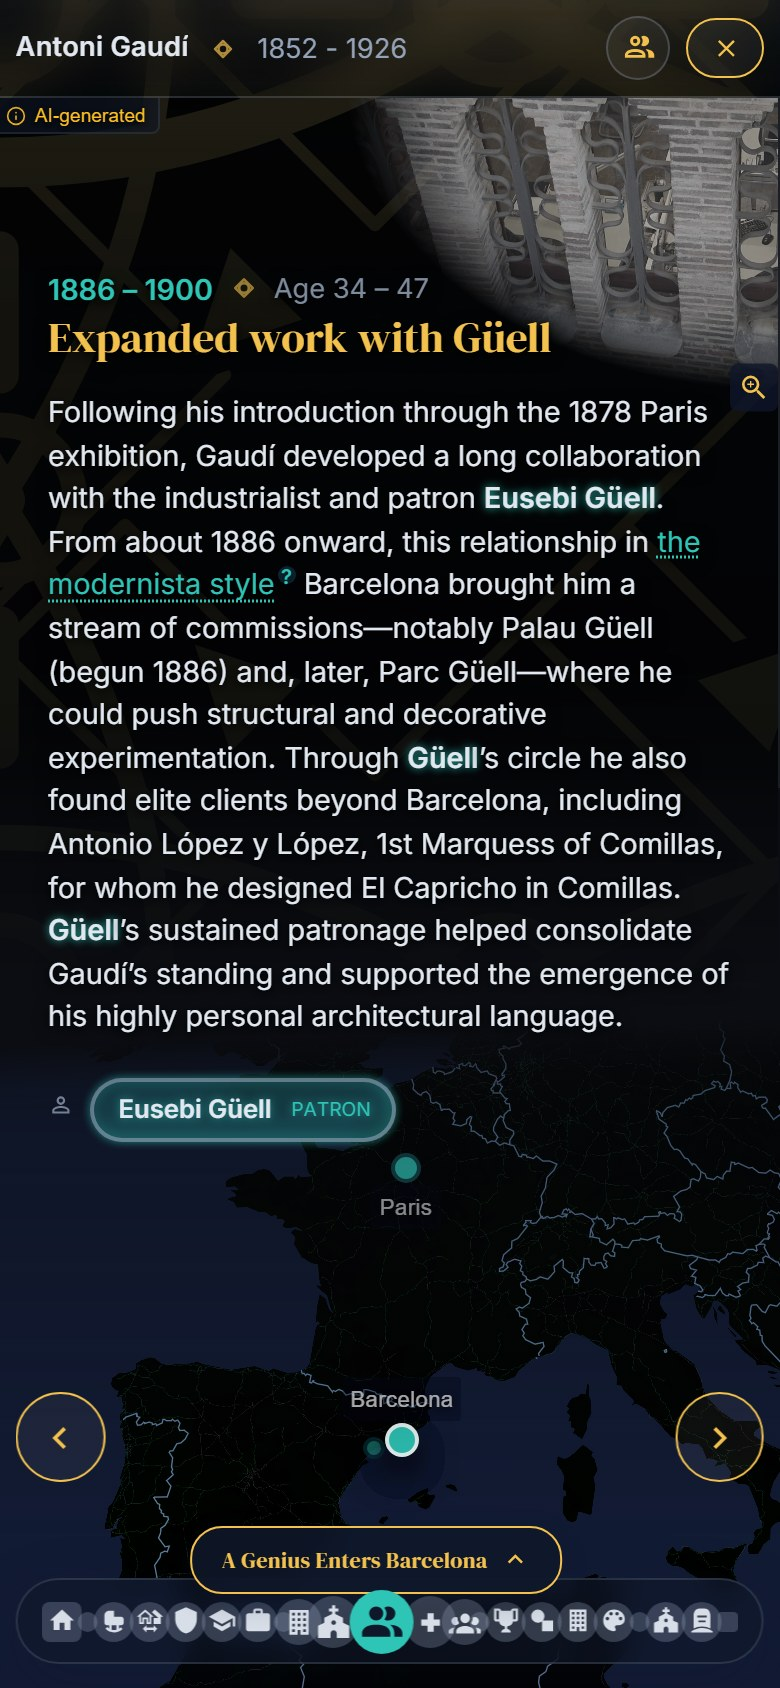
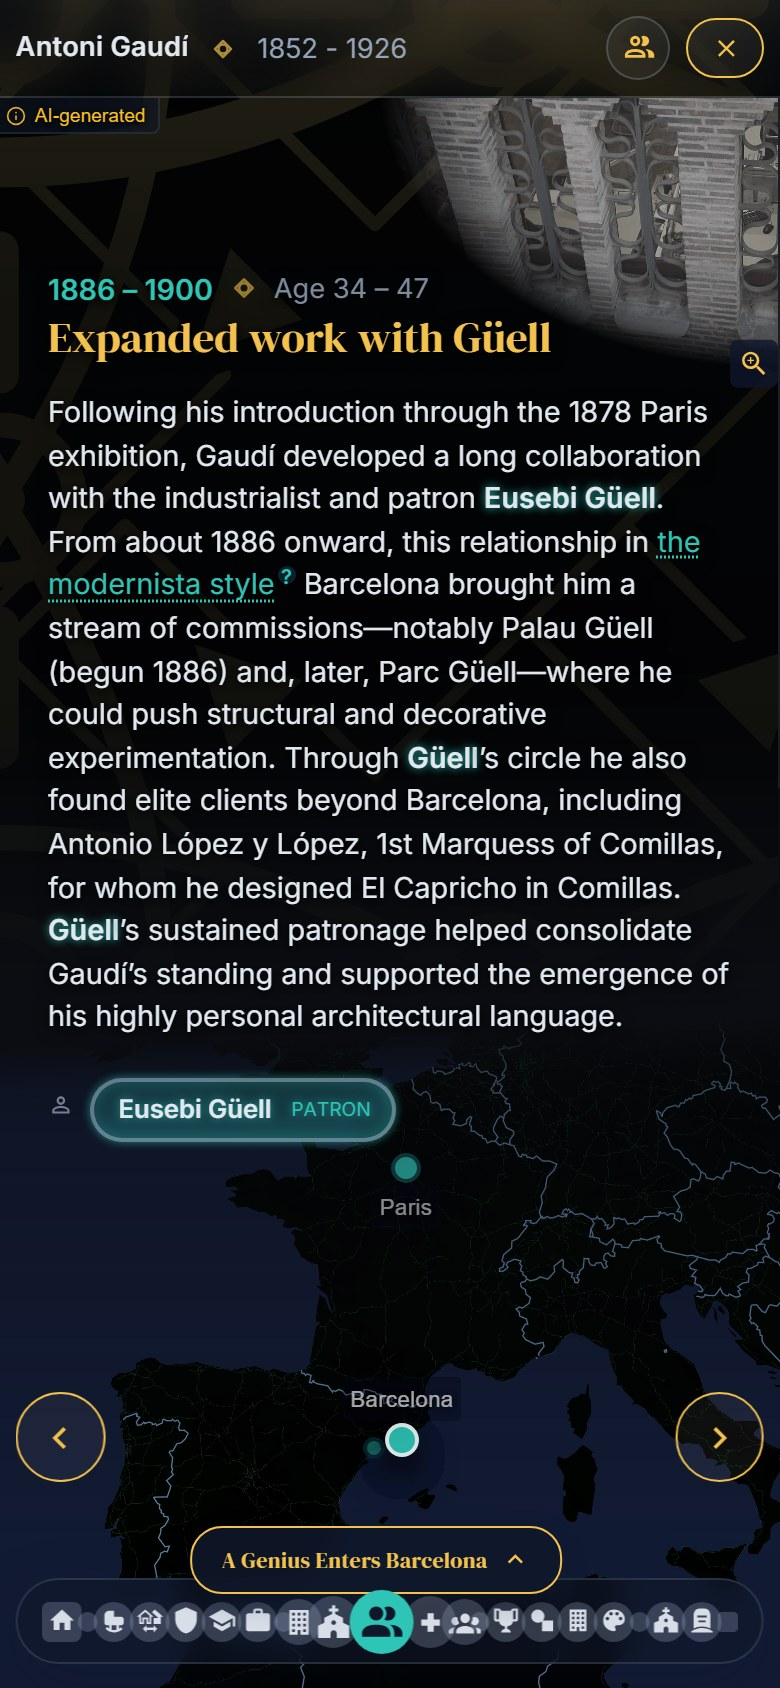
Update image capture dates and sizes; add test for event picture layout

Changed region(s): [[0.4923, 0.0308, 1.0, 0.2464]]

diff --git a/tests/interface.spec.js b/tests/interface.spec.js
@@ -66,6 +66,7 @@ async function expectNoSidewaysScroll(page, where) {
 // host is a test that fails for reasons of its own. This serves a local file in
 // their place, so the layout the picture drives is measured offline and always.
 const LOCAL_IMAGE = readFileSync("public/preview.png");
+const LOCAL_PORTRAIT_IMAGE = readFileSync("public/portraits/ada_lovelace.png");
 
 async function serveImagesLocally(page) {
   await page.route(/upload\.wikimedia\.org/, (route) =>
@@ -178,6 +179,44 @@ test("an event picture is anchored to the slide corner", async ({ page }) => {
     measured.thumbnail.right,
     "the intentional image offset no longer clears the right edge"
   ).toBeGreaterThanOrEqual(measured.slide.right);
+});
+
+test("an event picture grows into an open side column", async ({ page }) => {
+  test.skip(
+    test.info().project.name !== "desktop-chromium",
+    "geometry is checked once at a wide landscape viewport"
+  );
+  const openEvent = lovelaceEvents.events
+    .map((event, index) => ({ event, index }))
+    .filter(({ event }) => (event.images ?? []).length > 0)
+    .sort(
+      (left, right) =>
+        (left.event.description?.length ?? 0) -
+        (right.event.description?.length ?? 0)
+    )[0];
+  expect(openEvent, "no Lovelace event carries a picture").toBeTruthy();
+
+  await page.setViewportSize({ width: 1600, height: 900 });
+  await page.route(/upload\.wikimedia\.org/, (route) =>
+    route.fulfill({
+      status: 200,
+      contentType: "image/png",
+      body: LOCAL_PORTRAIT_IMAGE,
+    })
+  );
+  await page.goto(`en#/en/story/ada_lovelace?event=${openEvent.index}`);
+  const slide = page.locator("section.slide:not([inert])");
+  const picture = slide.locator(".image-thumbnail.image-visible");
+  await expect(picture).toBeVisible();
+
+  const measured = await picture.evaluate((element) => ({
+    height: element.getBoundingClientRect().height,
+    viewportHeight: window.innerHeight,
+  }));
+  expect(
+    measured.height / measured.viewportHeight,
+    "a portrait stays a small corner accent despite an open side column"
+  ).toBeGreaterThanOrEqual(0.7);
 });
 
 // The report is a separate page published next to the app, so a broken link

diff --git a/src/components/EventSlide.svelte b/src/components/EventSlide.svelte
@@ -259,6 +259,7 @@
     // it, since they stack in one column.
     const imagesContainerEl = img.closest(".event-images");
     const slideRoot = imagesContainerEl?.parentElement ?? null;
+    const slideRect = slideRoot?.getBoundingClientRect();
     const headerRect = slideRoot
       ?.querySelector(".event-header")
       ?.getBoundingClientRect();
@@ -272,22 +273,27 @@
     );
 
     const headroom = headerRect
-      ? Math.max(0, headerRect.top)
+      ? Math.max(0, headerRect.top - (slideRect?.top ?? 0))
       : viewportHeight * 0.15;
     const sideRoom = descriptionRect
-      ? Math.max(0, viewportWidth - descriptionRect.right)
+      ? Math.max(0, (slideRect?.right ?? viewportWidth) - descriptionRect.right)
       : viewportWidth * 0.25;
 
-    // Above the text: nearly the whole width, down to the first line.
+    // Above the text: nearly the whole width, down to the first line. The
+    // faded lower edge may enter the text's first lines, which lets a genuinely
+    // open upper half carry a substantial landscape image without covering the
+    // prose with its opaque center.
     const above = fitBudget(
-      viewportWidth * 0.92,
-      Math.min(headroom + viewportHeight * 0.08, viewportHeight * 0.66) /
+      viewportWidth * 0.96,
+      Math.min(headroom + viewportHeight * 0.12, viewportHeight * 0.76) /
         imageCount
     );
-    // Beside the text: the free column, stopping short of the map band.
+    // Beside the text: the free column, stopping short of the map band. A tall
+    // side column should be allowed to make a portrait visibly tall; its width
+    // still limits the result when the prose occupies more of the slide.
     const beside = fitBudget(
-      Math.min(sideRoom + viewportWidth * 0.1, viewportWidth * 0.75),
-      (viewportHeight * 0.58) / imageCount
+      Math.min(sideRoom + viewportWidth * 0.14, viewportWidth * 0.82),
+      (viewportHeight * 0.72) / imageCount
     );
     // The floor keeps the corner presence a slide full of text always had.
     const floor = fitBudget(viewportWidth * 0.45, viewportHeight * 0.3);
